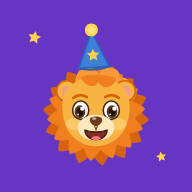
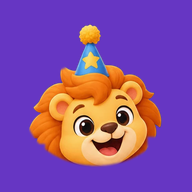
Use cutouts of the original lion art in landing variant B
The hand-drawn SVG lion was too far from the proposal. The mascot,
the lion holding a gift, the head for the wordmark and the app icon are
now cut out of the original image with background removal and upscaled
2x.

Claude-Session: https://claude.ai/code/session_01PM6JEVD94roesfv95mvFXA

Changed region(s): [[0.125, 0.0938, 0.8438, 0.875], [0.1562, 0.1562, 0.2188, 0.25], [0.8125, 0.7812, 0.875, 0.8438]]

diff --git a/src/app/apresentacao/b/page.tsx b/src/app/apresentacao/b/page.tsx
@@ -46,7 +46,7 @@ function Cta({ className = "", tone = "purple" }: { className?: string; tone?: "
 function Wordmark({ size = "text-3xl" }: { size?: string }) {
   return (
     <span className={`inline-flex items-center gap-2 font-black tracking-tight text-[#4a1fa3] ${size}`}>
-      <Image src="/brand/b/leao-cabeca.svg" alt="" width={300} height={300} className="size-[1.6em]" />
+      <Image src="/brand/b/leao-cabeca.png" alt="" width={512} height={512} className="size-[1.7em]" />
       Niver
     </span>
   );
@@ -85,11 +85,12 @@ export default function LandingB() {
 
           <div className="relative mx-auto flex w-full max-w-xl items-end justify-center">
             <Image
-              src="/brand/b/mascote-leao.svg"
+              src="/brand/b/leao-corpo.webp"
               alt="Leo, o leãozinho festeiro do Niver, de braços abertos"
-              width={500}
-              height={500}
+              width={872}
+              height={1026}
               priority
+              sizes="(min-width: 640px) 320px, 256px"
               className="relative z-10 -mr-16 w-64 sm:w-80"
             />
             <div className="relative w-44 shrink-0 rotate-6 rounded-[2rem] bg-[#1d1630] p-1.5 shadow-[0_30px_60px_-24px_rgb(41_27_67/0.6)] sm:w-56">
@@ -172,7 +173,7 @@ export default function LandingB() {
 
         <section className="px-4 pb-16 sm:px-6">
           <div className="relative mx-auto flex max-w-6xl flex-col items-center gap-6 rounded-[2rem] bg-[#4a1fa3] px-6 pt-4 pb-10 text-center text-white sm:flex-row sm:pr-10 sm:pb-4 sm:text-left">
-            <Image src="/brand/b/mascote-leao.svg" alt="" width={500} height={500} className="-mt-14 w-40 sm:-mb-6 sm:w-48" />
+            <Image src="/brand/b/leao-presente.webp" alt="" width={454} height={448} sizes="192px" className="-mt-14 w-40 sm:-mb-4 sm:w-48" />
             <div className="flex-1">
               <h2 className="text-2xl font-black sm:text-3xl">Deixe a festa ainda mais especial!</h2>
               <p className="mt-1 text-white/85">Crie o convite agora e comece a alegria antes mesmo da festa.</p>

diff --git a/docs/marca/variante-b.md b/docs/marca/variante-b.md
@@ -8,15 +8,16 @@ Celebração organizada: a energia de uma festa infantil com uma interface fáci
 
 ## Mascote: Leo
 
-Leãozinho festeiro, de braços abertos, com chapéu de aniversário azul com estrela e camiseta roxa com estrela amarela. Desenho original, redesenhado em vetor a partir da imagem da proposta.
+Leãozinho festeiro, de braços abertos, com chapéu de aniversário azul com estrela e camiseta roxa com estrela amarela. As imagens são recortes da arte original da proposta, com o fundo removido por segmentação e ampliadas 2x.
 
 | Arquivo | Uso |
 |---|---|
-| `public/brand/b/mascote-leao.svg` e `.png` | Corpo inteiro, na abertura e na chamada final |
-| `public/brand/b/leao-cabeca.svg` | Cabeça com chapéu, ao lado do nome Niver |
-| `public/brand/b/icone-leao.svg`, `-192.png`, `-512.png` | Ícone do app, se a variante B vencer |
+| `public/brand/b/leao-corpo.webp` | Corpo inteiro, na abertura |
+| `public/brand/b/leao-presente.webp` | Leo segurando um presente, na chamada final |
+| `public/brand/b/leao-cabeca.png` | Cabeça com chapéu, ao lado do nome Niver |
+| `public/brand/b/icone-leao-192.png`, `-512.png` | Ícone do app, se a variante B vencer |
 
-Para alterar o desenho, edite `scripts/desenhar-leao.py` e rode `python3 scripts/desenhar-leao.py public/brand/b`.
+As imagens vêm de uma figura de baixa resolução (o leão tem cerca de 460 px de altura no original). Se a variante B vencer, vale pedir à outra IA o leão em alta resolução com fundo transparente, ou um arquivo vetorial, antes de usar em peças maiores.
 
 ## Paleta
 
